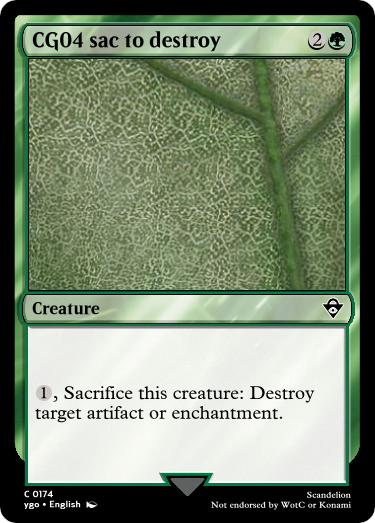
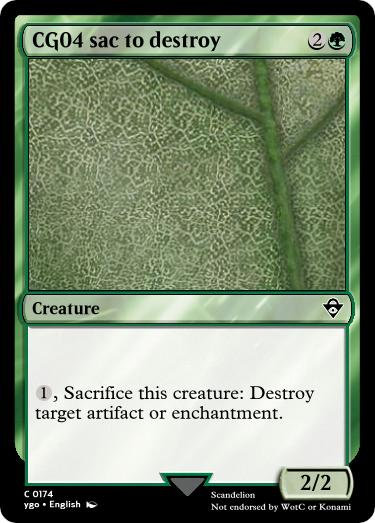
Update
added p/t to CG04

Changed region(s): [[0.5573, 0.8872, 0.968, 0.979]]

diff --git a/previews/ygo.html b/previews/ygo.html
@@ -259,14 +259,14 @@
 			<div class="container"><img alt="/img\er.png" id="er" data-flag="@E" onclick="openSidebar('er',false)"></div>
 			<div class="container"><img alt="/img\er.png" id="er" data-flag="@E" onclick="openSidebar('er',false)"></div>
 <div id="colorless" class="anchor"></div>
-			<div class="container"><img alt="/sets\ygo-files\img\6_RX01.jpg" id="6_RX01" data-flag="@X" onclick="openSidebar('6_RX01',false)"></div>
-			<div class="container"><img alt="/sets\ygo-files\img\252_UA01.jpg" id="252_UA01" data-flag="@X" onclick="openSidebar('252_UA01',false)"></div>
 			<div class="container"><img alt="/sets\ygo-files\img\243_CA01 Scry VVanilla.jpg" id="243_CA01 Scry VVanilla" data-flag="@X" onclick="openSidebar('243_CA01 Scry VVanilla',false)"></div>
 			<div class="container"><img alt="/sets\ygo-files\img\244_CA02 Flying replacer.jpg" id="244_CA02 Flying replacer" data-flag="@X" onclick="openSidebar('244_CA02 Flying replacer',false)"></div>
 			<div class="container"><img alt="/sets\ygo-files\img\245_CA03 Treasure VVanilla.jpg" id="245_CA03 Treasure VVanilla" data-flag="@X" onclick="openSidebar('245_CA03 Treasure VVanilla',false)"></div>
 			<div class="container"><img alt="/sets\ygo-files\img\246_CA04 Millennium Scale.jpg" id="246_CA04 Millennium Scale" data-flag="@X" onclick="openSidebar('246_CA04 Millennium Scale',false)"></div>
 			<div class="container"><img alt="/sets\ygo-files\img\247_CA05 FT Mana Rock.jpg" id="247_CA05 FT Mana Rock" data-flag="@X" onclick="openSidebar('247_CA05 FT Mana Rock',false)"></div>
 			<div class="container"><img alt="/sets\ygo-files\img\248_CA06 Millennium Key.jpg" id="248_CA06 Millennium Key" data-flag="@X" onclick="openSidebar('248_CA06 Millennium Key',false)"></div>
+			<div class="container"><img alt="/img\e.png" id="e" data-flag="@E" onclick="openSidebar('e',false)"></div>
+			<div class="container"><img alt="/img\e.png" id="e" data-flag="@E" onclick="openSidebar('e',false)"></div>
 			<div class="container"><img alt="/img\e.png" id="e" data-flag="@E" onclick="openSidebar('e',false)"></div>
 			<div class="container"><img alt="/img\e.png" id="e" data-flag="@E" onclick="openSidebar('e',false)"></div>
 			<div class="container"><img alt="/img\er.png" id="er" data-flag="@E" onclick="openSidebar('er',false)"></div>

diff --git a/all-sets.html b/all-sets.html
@@ -100,7 +100,7 @@
 				<img src="/sets/ygo-files/icon.png">
 				<div class="set-title">MTG x Yu-Gi-Oh!</div>
 				<div>ygo</div>
-				<div>93</div>
+				<div>91</div>
 			</a>
 			</div>
 		
